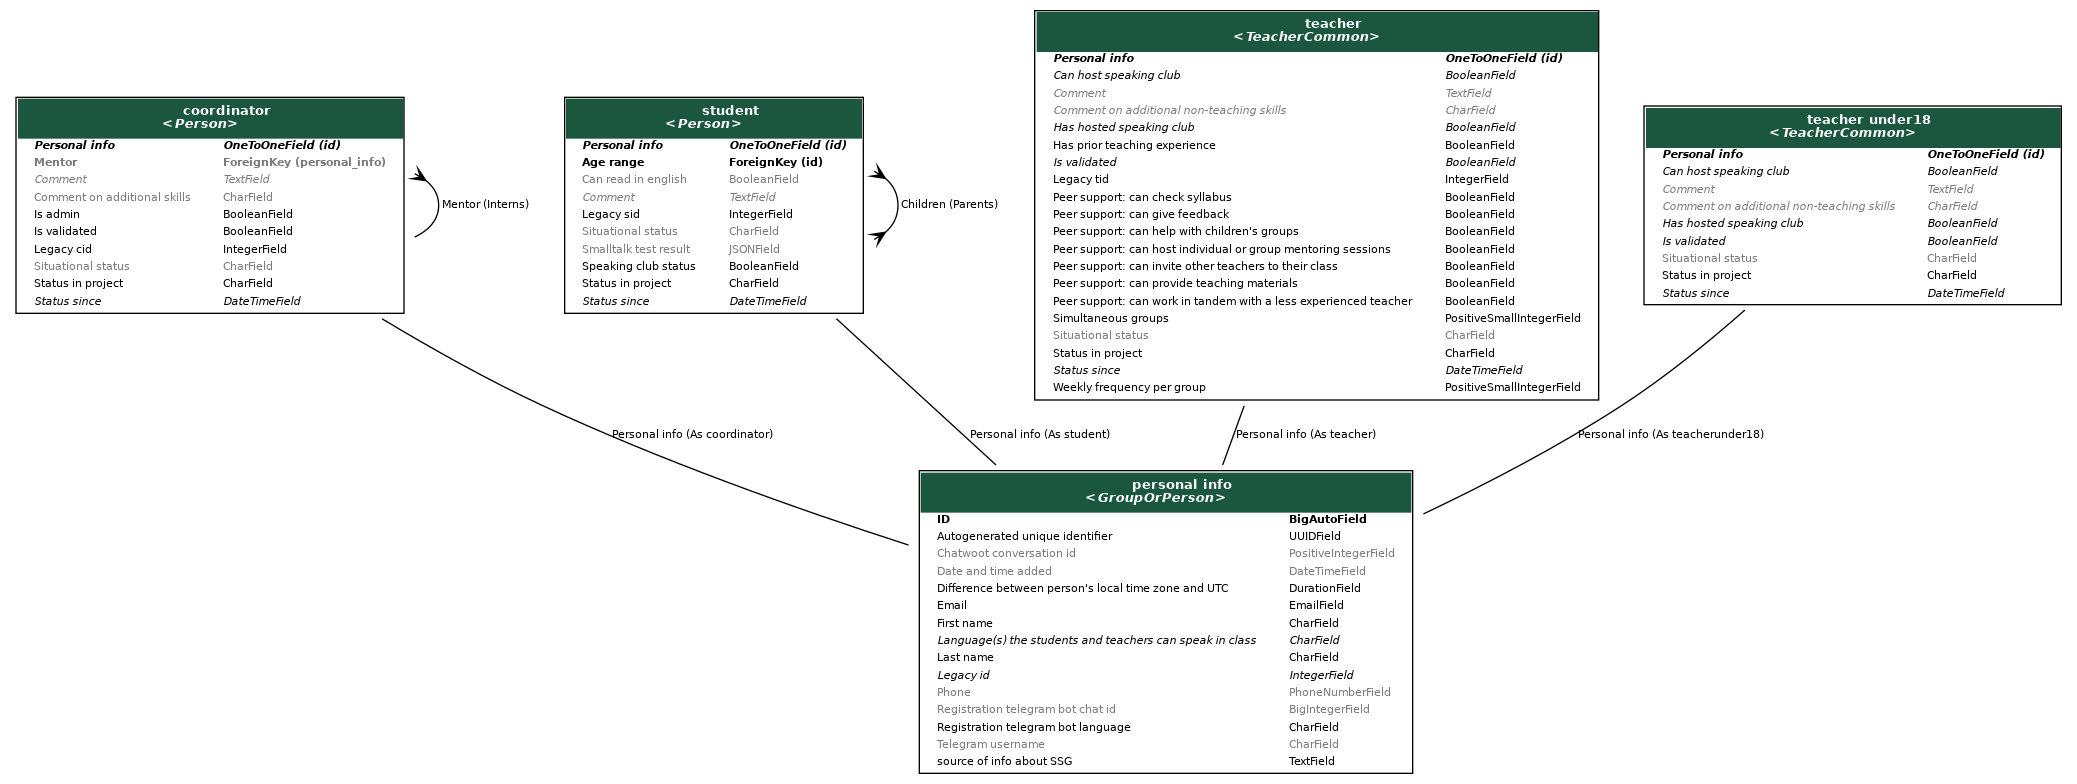
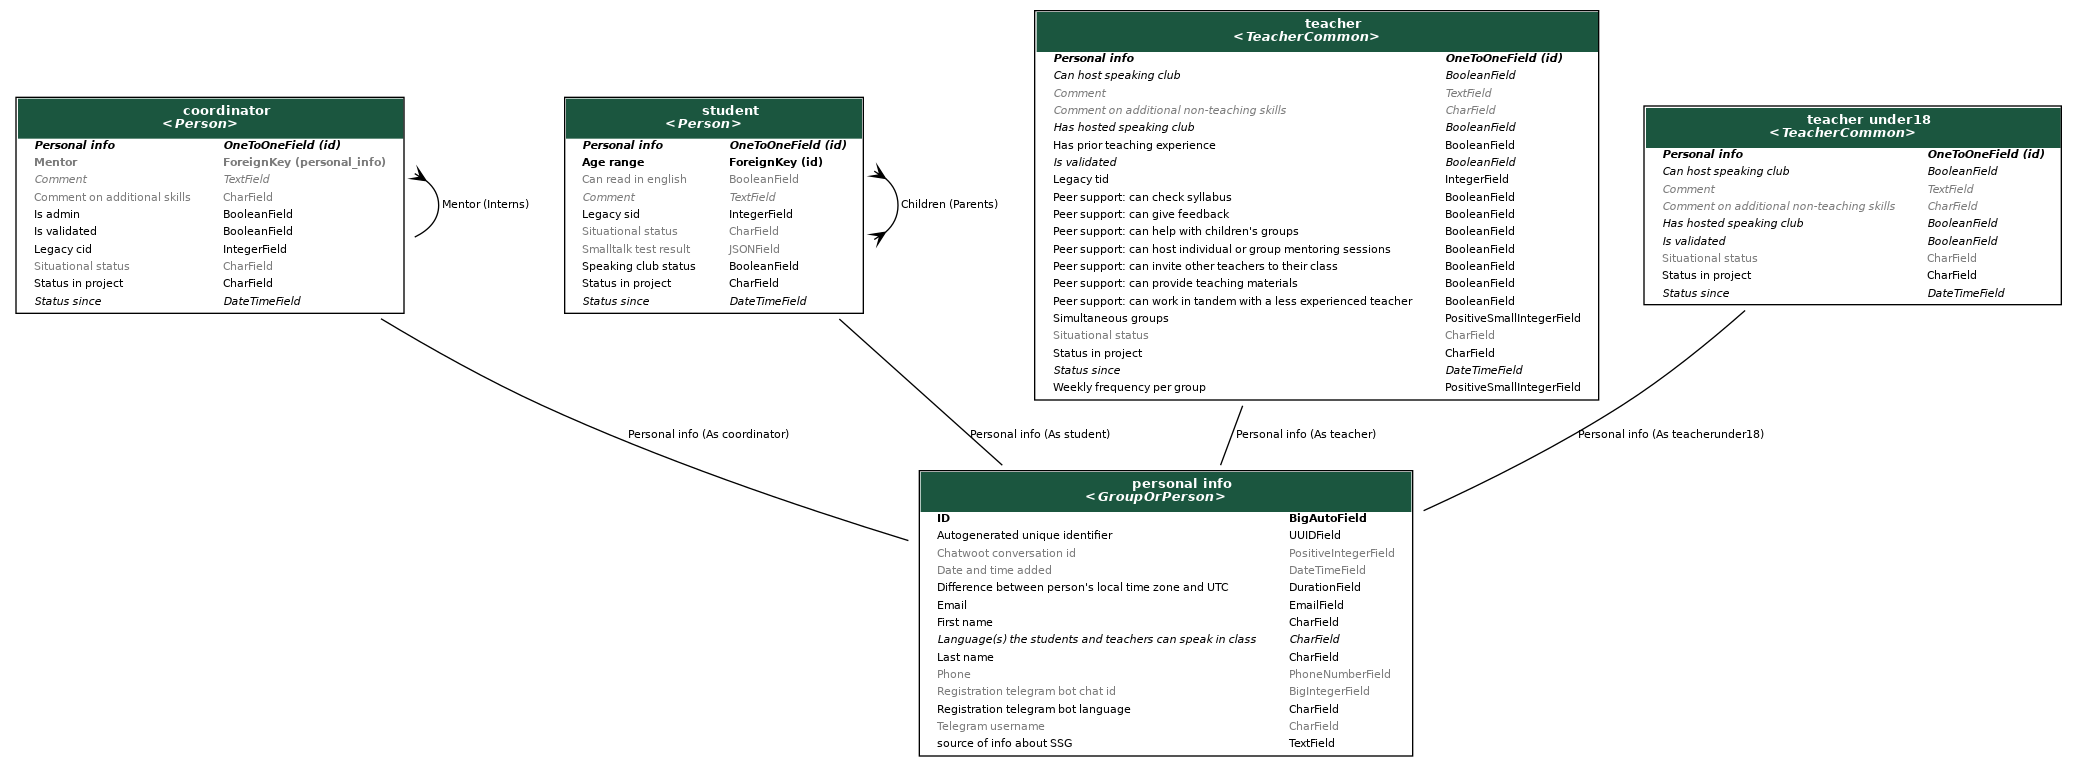
fix: fix numpy errors, remove legacy id

diff --git a/api/migrations/0001_initial.py b/api/migrations/0001_initial.py
@@ -1,4 +1,4 @@
-# Generated by Django 5.0.2 on 2024-03-18 21:25
+# Generated by Django 5.0.3 on 2024-05-01 13:32
 
 import datetime
 import django.db.models.deletion
@@ -52,7 +52,6 @@ class Migration(migrations.Migration):
                         auto_created=True, primary_key=True, serialize=False, verbose_name="ID"
                     ),
                 ),
-                ("legacy_id", models.IntegerField(null=True)),
                 (
                     "communication_language_mode",
                     models.CharField(
@@ -264,7 +263,6 @@ class Migration(migrations.Migration):
                         auto_created=True, primary_key=True, serialize=False, verbose_name="ID"
                     ),
                 ),
-                ("legacy_id", models.IntegerField(null=True)),
                 (
                     "communication_language_mode",
                     models.CharField(
@@ -280,7 +278,10 @@ class Migration(migrations.Migration):
                 ),
                 ("comment", models.TextField(blank=True)),
                 ("telegram_chat_url", models.URLField(blank=True, null=True)),
-                ("legacy_gid", models.IntegerField(null=True)),
+                (
+                    "legacy_gid",
+                    models.IntegerField(help_text="Group id from the old database", null=True),
+                ),
                 ("is_for_staff_only", models.BooleanField(default=False)),
                 ("lesson_duration_in_minutes", models.PositiveSmallIntegerField()),
                 (
@@ -431,7 +432,6 @@ class Migration(migrations.Migration):
                         auto_created=True, primary_key=True, serialize=False, verbose_name="ID"
                     ),
                 ),
-                ("legacy_id", models.IntegerField(null=True)),
                 (
                     "communication_language_mode",
                     models.CharField(
@@ -631,7 +631,12 @@ class Migration(migrations.Migration):
                         help_text="date and time of last change of project-level or situational status"
                     ),
                 ),
-                ("legacy_cid", models.IntegerField(null=True)),
+                (
+                    "legacy_cid",
+                    models.IntegerField(
+                        help_text="Coordinator id from the old database", null=True
+                    ),
+                ),
                 (
                     "additional_skills_comment",
                     models.CharField(
@@ -717,7 +722,10 @@ class Migration(migrations.Migration):
                         help_text="date and time of last change of project-level or situational status"
                     ),
                 ),
-                ("legacy_sid", models.IntegerField(null=True)),
+                (
+                    "legacy_sid",
+                    models.IntegerField(help_text="Student id from the old database", null=True),
+                ),
                 ("can_read_in_english", models.BooleanField(blank=True, null=True)),
                 (
                     "is_member_of_speaking_club",
@@ -809,7 +817,10 @@ class Migration(migrations.Migration):
                         verbose_name="comment on additional non-teaching skills",
                     ),
                 ),
-                ("legacy_tid", models.IntegerField(null=True)),
+                (
+                    "legacy_tid",
+                    models.IntegerField(help_text="Teacher id from the old database", null=True),
+                ),
                 (
                     "has_prior_teaching_experience",
                     models.BooleanField(

diff --git a/api/models/shared_abstract/group_or_person.py b/api/models/shared_abstract/group_or_person.py
@@ -9,7 +9,6 @@ from api.models.choices.communication_language_mode import CommunicationLanguage
 class GroupOrPerson(models.Model):
     """Model holding attributes that are common for every person and group."""
 
-    legacy_id = models.IntegerField(null=True)
     communication_language_mode = models.CharField(
         max_length=DEFAULT_CHOICE_CHAR_FIELD_MAX_LENGTH,
         choices=CommunicationLanguageMode.choices,

diff --git a/api/processors/actions/student/create.py b/api/processors/actions/student/create.py
@@ -15,7 +15,7 @@ class StudentCreateProcessor(StudentActionProcessor):
         self._create_log_events()
 
     def _set_statuses(self) -> None:
-        return super()._set_statuses()
+        pass
 
     def _create_log_events(self) -> None:
         StudentLogEvent.objects.create(student=self.student, type=StudentLogEventType.REGISTERED)

diff --git a/api/processors/actions/teacher/create.py b/api/processors/actions/teacher/create.py
@@ -15,7 +15,7 @@ class TeacherCreateProcessor(TeacherActionProcessor):
         self._create_log_events()
 
     def _set_statuses(self) -> None:
-        return super()._set_statuses()
+        pass
 
     def _create_log_events(self) -> None:
         TeacherLogEvent.objects.create(teacher=self.teacher, type=TeacherLogEventType.REGISTERED)

diff --git a/api/processors/actions/group/create.py b/api/processors/actions/group/create.py
@@ -36,7 +36,7 @@ class GroupCreateProcessor(GroupActionProcessor):
         )
 
     def _set_coordinators_status(self) -> None:
-        return super()._set_coordinators_status()
+        pass
 
     def _set_teachers_status(self) -> None:
         self.group.teachers.all().filter_active().update(  # type: ignore[attr-defined]

diff --git a/api/processors/actions/group/discard.py b/api/processors/actions/group/discard.py
@@ -32,7 +32,7 @@ class GroupDiscardProcessor(GroupActionProcessor):
         self.group.delete()
 
     def _set_group_status(self) -> None:
-        super()._set_group_status()
+        pass
 
     def _set_coordinators_status(self) -> None:
         StatusSetter.update_statuses_of_active_coordinators(self.timestamp)

diff --git a/api/processors/actions/coordinator/create.py b/api/processors/actions/coordinator/create.py
@@ -15,7 +15,7 @@ class CoordinatorCreateProcessor(CoordinatorActionProcessor):
         self._create_log_events()
 
     def _set_statuses(self) -> None:
-        return super()._set_statuses()
+        pass
 
     def _create_log_events(self) -> None:
         CoordinatorLogEvent.objects.create(
